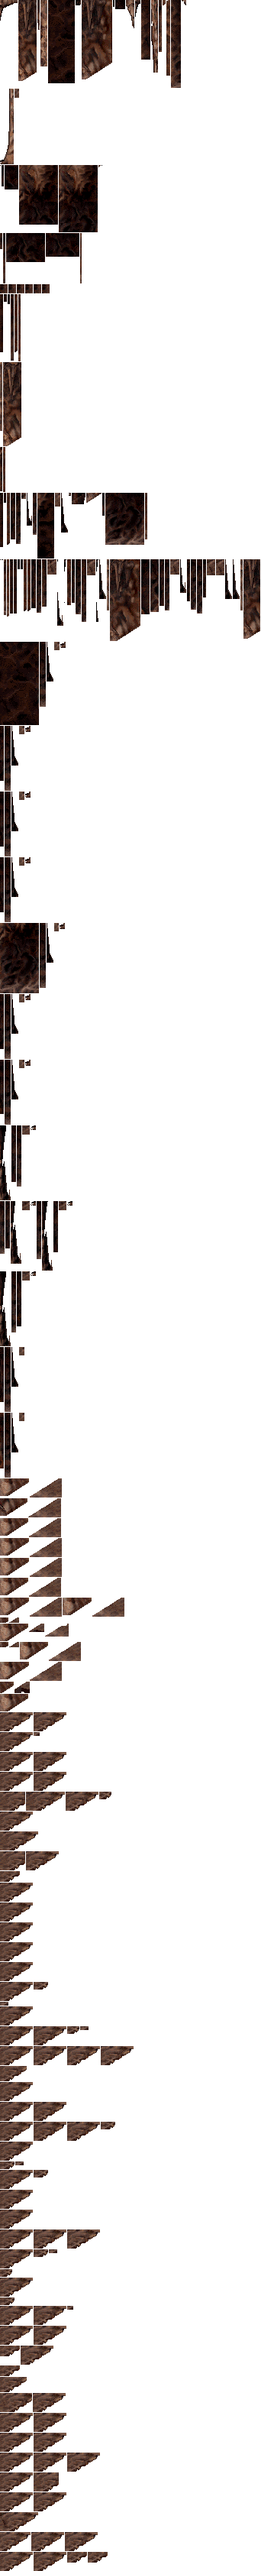
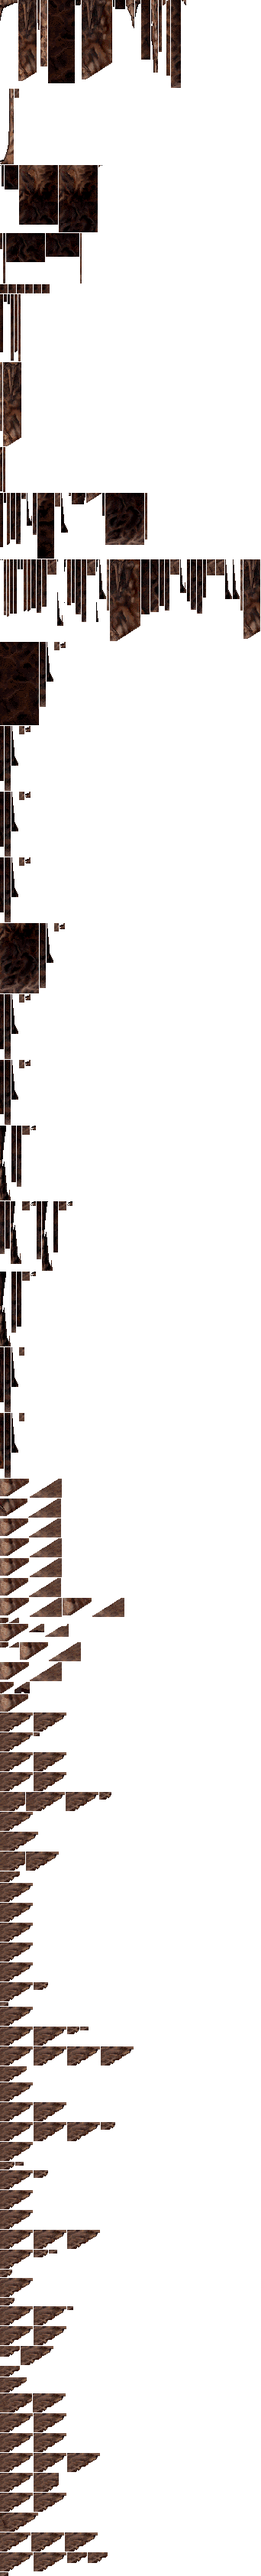
Blend approved right floor tips in level 5 room 14

diff --git a/tests/test_level5_cavern_retouch.py b/tests/test_level5_cavern_retouch.py
@@ -38,7 +38,7 @@ APPROVED = {
 class BundledLevelFiveArtworkTests(unittest.TestCase):
     def test_approved_scope_and_changed_source_guards(self):
         assets = retouch_assets(5)
-        self.assertEqual(len(assets), 77)
+        self.assertEqual(len(assets), 78)
         self.assertEqual({key[0] for key in assets}, (set(APPROVED) | right_tip_rooms(5)))
         for key, (record, image) in assets.items():
             room, shape, x, bottom, mode = key

diff --git a/docs/CAVERN_ARTWORK.md b/docs/CAVERN_ARTWORK.md
@@ -395,3 +395,4 @@ artwork; no original golden or mask assertion is discarded.
[4 lines of base64/hex data omitted]
